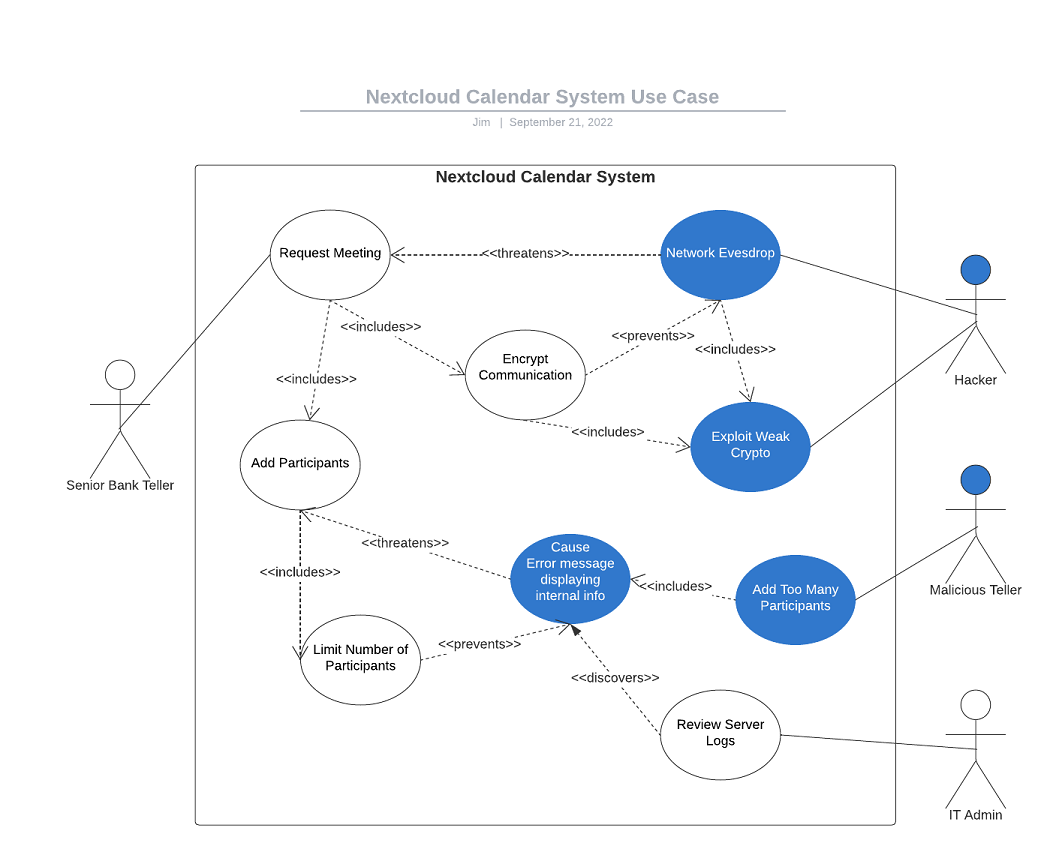
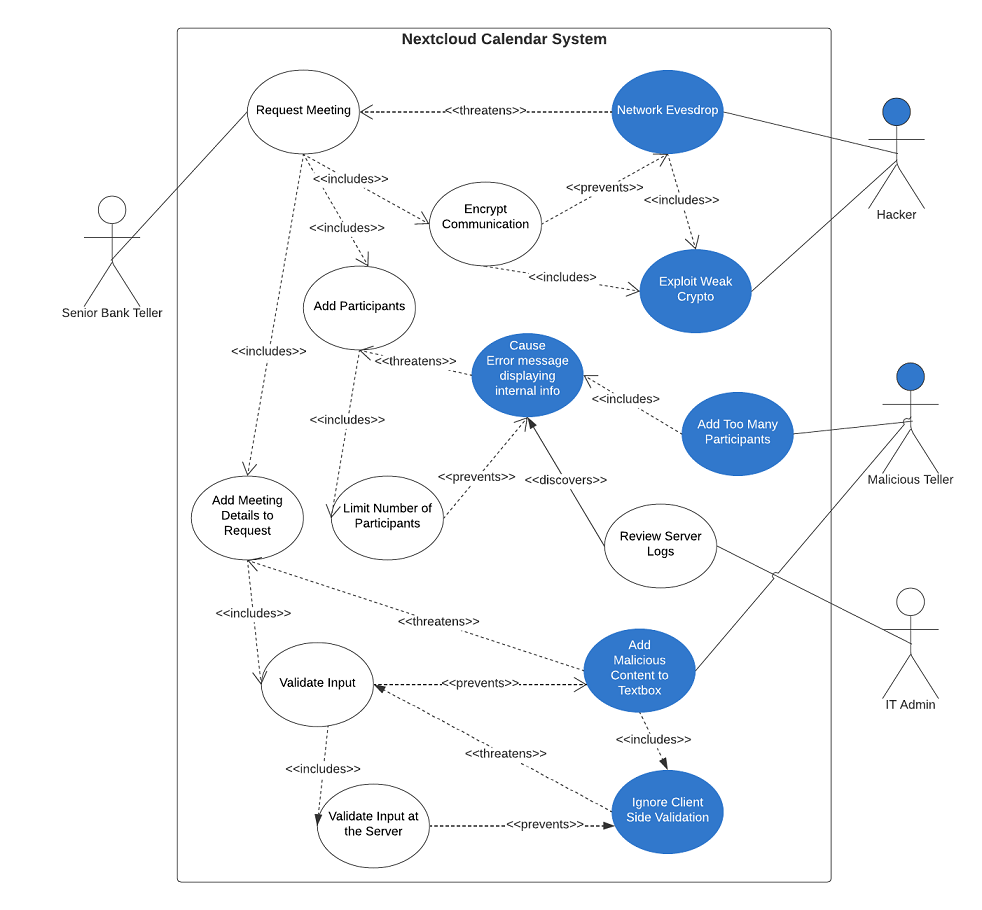
essential interaction 1

diff --git a/RequirementsforSSE_Assignment2.md b/RequirementsforSSE_Assignment2.md
@@ -1,26 +1,9 @@
 # CYBR/CSCI 8420, Fall 2022: Assignment 2 - Requirements for SSE
 
-**Team 2**:
-* cosmicspork -- Team Lead
-* Dillon Petschke
-* Larissa Sazama
-* Jim Svoboda
-* Tabot Tambe
-
----
-
-Project Information
--
-**Chosen Software Project**: [Nextcloud](https://github.com/nextcloud)  
-[Group GitHub Repository](https://github.com/unosec/project)  
-[Group Project Boards](https://github.com/orgs/unosec/projects)
-
----
-
 
 Scenario
 -
-Our scenario represents a privately-owned bank located in a small, Nebraskan town (<500 residents). Most of the bank's clientale are local farmers and ranchers, making loans very popular. The bank staff includes a President/Owner, Vice-President/Bank Manager, Loan Manager, 1 full-time Senior Teller, and 3 part-time tellers. The information stored in the Nextcloud application must be compliant with US federal banking regulations (e.g., PCI DSS, GLBA, etc.).
+Our scenario represents a privately-owned bank located in a small, Nebraskan town (<500 residents). Most of the bank's clientele are local farmers and ranchers, making loans very popular. The bank staff includes a President/Owner, Vice-President/Bank Manager, Loan Manager, 1 full-time Senior Teller, and 3 part-time tellers. The information stored in the Nextcloud application must be compliant with US federal banking regulations (e.g., PCI DSS, GLBA, etc.).
 
 
 Assignment Overview
@@ -39,5 +22,11 @@ Essential Interaction #1
 
 - Calendar system
 
-![Picture 2](https://github.com/unosec/project/blob/main/images/JSAssignment2.png).
+### Security Requirements
+
+- Meeting details must remain private in transit over the network
+- Adding participants should not affect system performance or cause an error displaying sensitive information
+- Prevent malicious content such as Javascript, HTML, or external URLs from being entered in meeting details  
+
+![JSAssignment2](https://github.com/unosec/project/blob/main/images/JSAssignment2.png).
 
